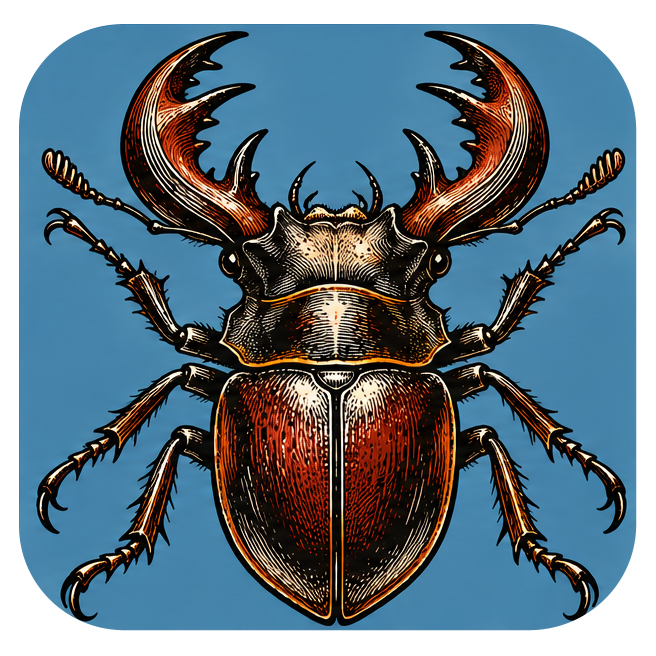
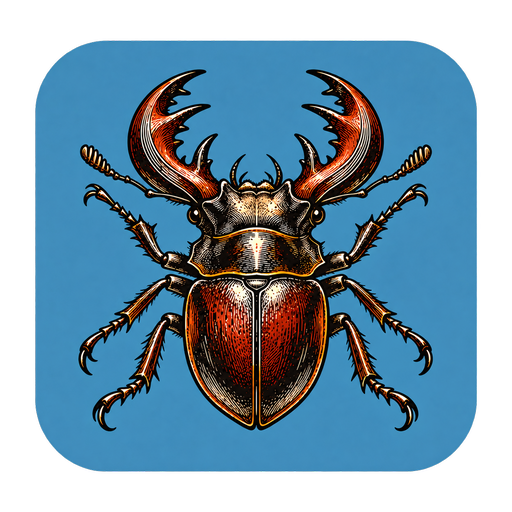
Branding: apply approved corrected CADStrike artwork

diff --git a/scripts/check_approved_branding.py b/scripts/check_approved_branding.py
@@ -1,0 +1,26 @@
+"""Approved 2026-10-25 branding contract. Requires Pillow; does not modify files."""
+from pathlib import Path
+from hashlib import sha256
+import json
+import unittest
+from PIL import Image
+ROOT = Path(__file__).resolve().parents[1]
+APP = 'CADStrike'
[1 lines of base64/hex data omitted]
+class ApprovedBranding(unittest.TestCase):
+    def test_exact_approved_source_and_readme(self):
+        p = ROOT / 'assets/branding' / (APP + '.png')
+        self.assertEqual(sha256(p.read_bytes()).hexdigest(), APPROVED)
+        with Image.open(p) as image:
+            self.assertEqual(image.size, (512,512))
+        self.assertIn('assets/branding/' + APP + '.png', (ROOT/'README.md').read_text())
+        self.assertEqual(json.loads((p.parent/'provenance.json').read_text())['sha256'], APPROVED)
+    def test_runtime_derivative_and_binding(self):
+        source = Image.open(ROOT/'assets/branding'/(APP+'.png')).convert('RGBA')
+        raw = ROOT/'assets/branding'/(APP+'-128.rgba')
+        self.assertTrue(raw.exists(), 'runtime derivative absent')
+        self.assertEqual(raw.read_bytes(), source.resize((128,128),Image.Resampling.LANCZOS).tobytes())
+        self.assertIn(APP+'-128.rgba', (ROOT/'src/bin/cadstrike-ui.rs').read_text())
+
+if __name__ == "__main__":
+    unittest.main()

diff --git a/src/bin/cadstrike-ui.rs b/src/bin/cadstrike-ui.rs
@@ -1,7 +1,14 @@
 fn main() -> eframe::Result<()> {
     eframe::run_native(
         "CADStrike",
-        eframe::NativeOptions::default(),
+        eframe::NativeOptions {
+            viewport: eframe::egui::ViewportBuilder::default().with_icon(eframe::egui::IconData {
+                rgba: include_bytes!("../../assets/branding/CADStrike-128.rgba").to_vec(),
+                width: 128,
+                height: 128,
+            }),
+            ..Default::default()
+        },
         Box::new(|_| Ok(Box::new(cadstrike::ui::CadStrikeApp::default()))),
     )
 }

diff --git a/scripts/generate_brand_icon.py b/scripts/generate_brand_icon.py
@@ -1,0 +1,7 @@
+"""Resize the full approved canvas, retaining proportions, centering and padding."""
+from pathlib import Path
+from PIL import Image
+ROOT = Path(__file__).resolve().parents[1]
+APP = 'CADStrike'
+image = Image.open(ROOT/'assets/branding'/(APP+'.png')).convert('RGBA')
+(ROOT/'assets/branding'/(APP+'-128.rgba')).write_bytes(image.resize((128,128),Image.Resampling.LANCZOS).tobytes())

diff --git a/README.md b/README.md
@@ -1,5 +1,5 @@
 <p align="center">
-  <img src="assets/branding/CADStrike.png" alt="Original CADStrike stag beetle logo" width="160" height="160">
+  <img src="assets/branding/CADStrike.png" alt="Approved CADStrike stag beetle logo" width="160" height="160">
 </p>
 
 <h1 align="center">CADStrike</h1>
